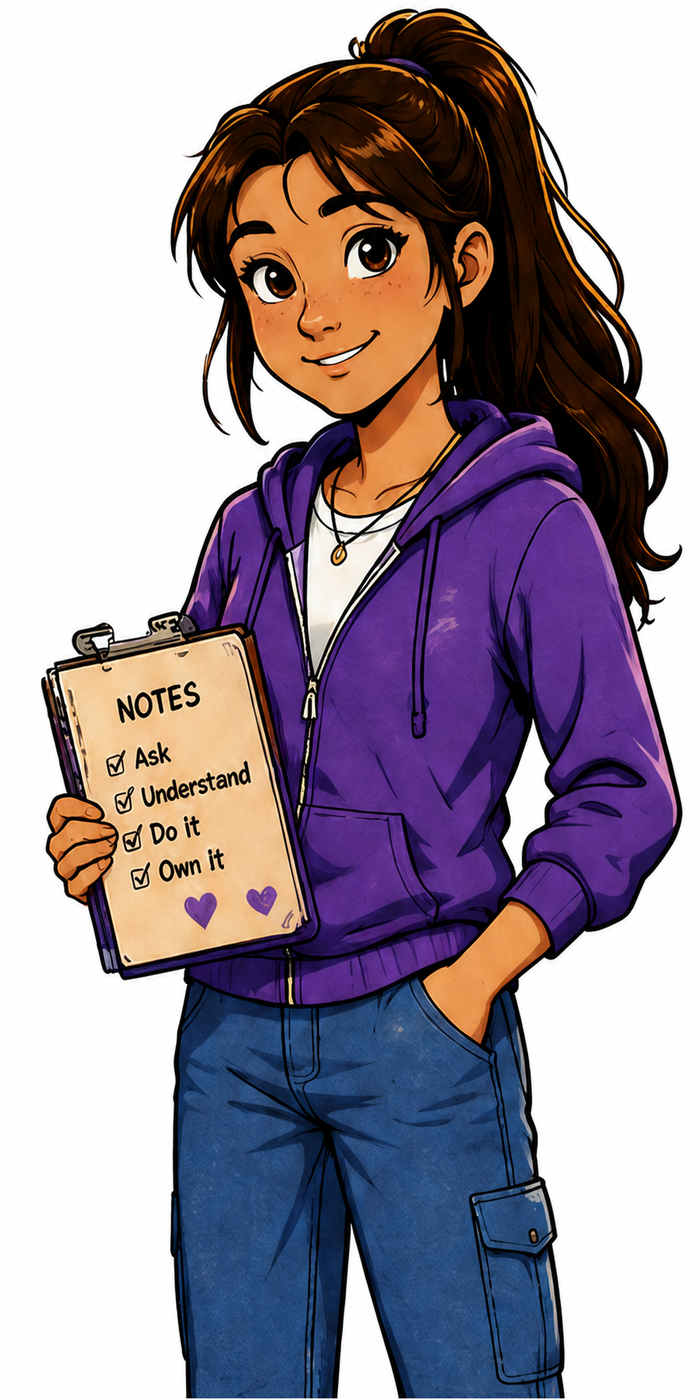
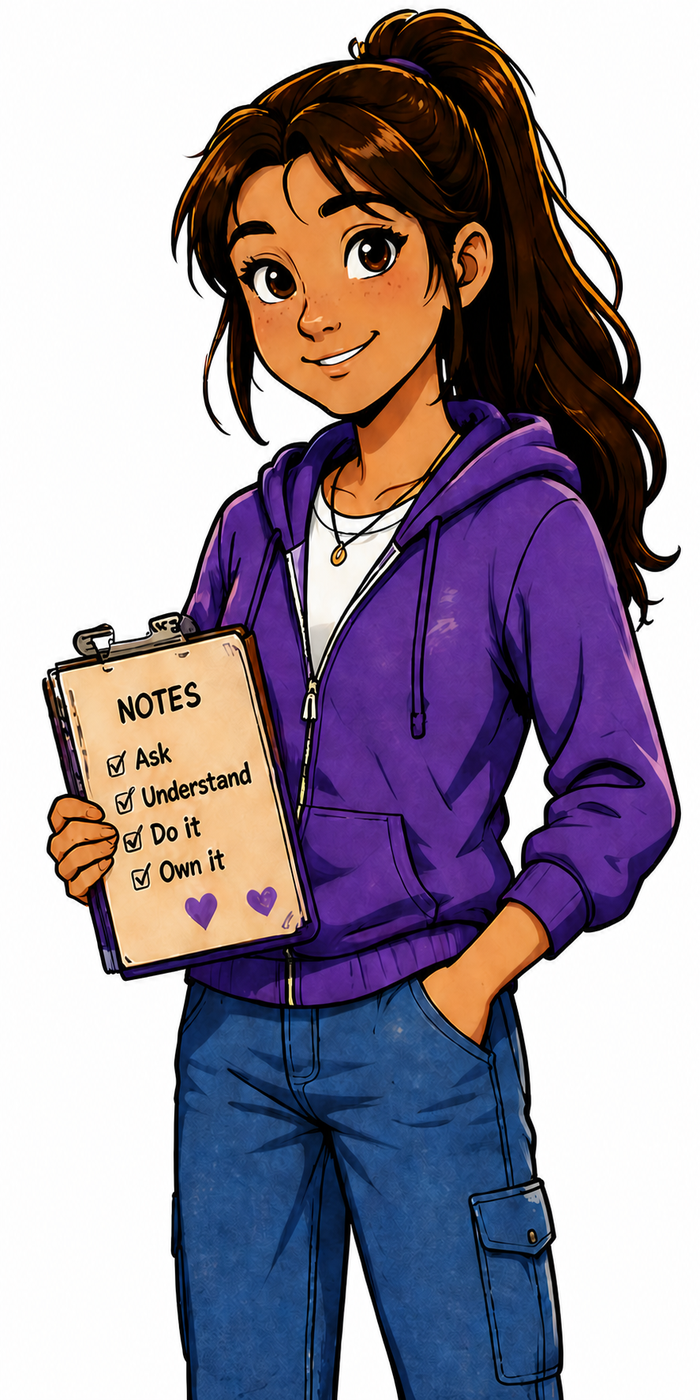
Add mobile menu and normalize Maya portrait

diff --git a/style.css b/style.css
@@ -1,5 +1,5 @@
 *{box-sizing:border-box}body{margin:0;background:#ececec;color:#1f1f1f;font-family:Arial,Helvetica,sans-serif;line-height:1.6}
-.top-nav{position:sticky;top:0;z-index:10;display:flex;justify-content:center;gap:4px 10px;overflow-x:auto;background:#1f6f8b;padding:10px 18px}.top-nav a{display:inline-block;flex:0 0 auto;padding:7px 11px;border-radius:7px;color:white;text-decoration:none;font-weight:bold;white-space:nowrap}.top-nav a:hover,.top-nav a:focus-visible{background:rgba(255,255,255,.14);text-decoration:underline;text-underline-offset:4px}.top-nav a[aria-current="page"]{background:#fff;color:#174f65;box-shadow:0 2px 8px rgba(0,0,0,.18);text-decoration:none}
+.top-nav{position:sticky;top:0;z-index:10;display:flex;justify-content:center;gap:4px 10px;overflow-x:auto;background:#1f6f8b;padding:10px 18px}.top-nav a{display:inline-block;flex:0 0 auto;padding:7px 11px;border-radius:7px;color:white;text-decoration:none;font-weight:bold;white-space:nowrap}.top-nav a:hover,.top-nav a:focus-visible{background:rgba(255,255,255,.14);text-decoration:underline;text-underline-offset:4px}.top-nav a[aria-current="page"]{background:#fff;color:#174f65;box-shadow:0 2px 8px rgba(0,0,0,.18);text-decoration:none}.mobile-menu-toggle{display:none}
 .hero{padding:68px 20px;text-align:center;background:linear-gradient(145deg,#fff,#e8f5f9);border-bottom:1px solid #cfcfcf}.hero h1{margin:4px 0 8px;font-size:clamp(2.2rem,7vw,4.8rem);line-height:1.05}
 .eyebrow{margin:0;color:#174f65;font-size:.95rem;font-weight:bold;letter-spacing:.08em;text-transform:uppercase}.hero-subtitle{font-size:clamp(1.2rem,3vw,1.7rem);font-weight:bold}.hero-copy{max-width:720px;margin:16px auto 28px}
 .hero-button,.card-button{display:inline-block;padding:14px 20px;border-radius:8px;background:#1f6f8b;color:white;text-decoration:none;font-weight:bold}
@@ -32,6 +32,13 @@ main{width:min(100%,1050px);margin:0 auto;padding:26px 14px 46px}.home-page{widt
 footer{padding:22px;text-align:center;color:#5f666b}
 @media(max-width:760px){
 .top-nav{justify-content:flex-start;gap:20px;padding:11px 14px}
+.top-nav.nav-enhanced{display:flex;flex-direction:column;align-items:stretch;gap:4px;overflow:visible;padding:9px 12px}
+.top-nav.nav-enhanced .mobile-menu-toggle{display:flex;align-items:center;justify-content:center;gap:9px;width:100%;padding:10px 14px;border:2px solid rgba(255,255,255,.7);border-radius:8px;background:transparent;color:#fff;font:inherit;font-weight:700;cursor:pointer}
+.top-nav.nav-enhanced .mobile-menu-toggle:hover,.top-nav.nav-enhanced .mobile-menu-toggle:focus-visible{background:rgba(255,255,255,.14);outline:3px solid rgba(255,255,255,.45);outline-offset:2px}
+.top-nav.nav-enhanced .menu-icon{font-size:1.15rem;line-height:1}
+.top-nav.nav-enhanced a{display:none;width:100%;box-sizing:border-box;padding:11px 14px;text-align:left}
+.top-nav.nav-enhanced.is-open a{display:block}
+.top-nav.nav-enhanced.is-open a[aria-current="page"]{box-shadow:none}
 .feature-grid,.skill-card-grid,.feedback-grid{grid-template-columns:1fr}.navigation-buttons{display:grid}.nav-button{width:100%}.skill-list a{display:block}.skill-number{display:block}.skill-section{padding:16px}.skill-guide{padding-left:8px;padding-right:8px}
 .comic-panel-review{margin:14px -16px 20px;overflow:hidden;border-radius:0}.comic-panel-review img{width:142%;max-width:none;margin-left:-21%;border-left:0;border-right:0;border-radius:0;box-shadow:none}.comic-panel-review figcaption{padding:0 16px}
 .first-page-crop img{clip-path:inset(0 0 7% 0);margin-bottom:-7%}.comic-panel-crop{max-height:390px}.middle-crop img{transform:translateY(-4%)}.lower-crop img{transform:translateY(-3%)}

diff --git a/nav-state.js b/nav-state.js
@@ -2,6 +2,53 @@
   const nav = document.querySelector(".top-nav");
   if (!nav) return;
 
+  nav.id ||= "site-navigation";
+  nav.classList.add("nav-enhanced");
+
+  const menuButton = document.createElement("button");
+  menuButton.type = "button";
+  menuButton.className = "mobile-menu-toggle";
+  menuButton.setAttribute("aria-controls", nav.id);
+  menuButton.setAttribute("aria-expanded", "false");
+  menuButton.innerHTML =
+    '<span class="menu-icon" aria-hidden="true">☰</span><span>Menu</span>';
+  nav.prepend(menuButton);
+
+  const closeMenu = () => {
+    nav.classList.remove("is-open");
+    menuButton.setAttribute("aria-expanded", "false");
+    menuButton.querySelector(".menu-icon").textContent = "☰";
+  };
+
+  menuButton.addEventListener("click", () => {
+    const isOpen = nav.classList.toggle("is-open");
+    menuButton.setAttribute("aria-expanded", String(isOpen));
+    menuButton.querySelector(".menu-icon").textContent = isOpen ? "✕" : "☰";
+  });
+
+  nav.querySelectorAll("a").forEach((link) => {
+    link.addEventListener("click", closeMenu);
+  });
+
+  document.addEventListener("keydown", (event) => {
+    if (event.key === "Escape" && nav.classList.contains("is-open")) {
+      closeMenu();
+      menuButton.focus();
+    }
+  });
+
+  document.addEventListener("click", (event) => {
+    if (
+      window.matchMedia("(max-width: 760px)").matches &&
+      nav.classList.contains("is-open") &&
+      !nav.contains(event.target)
+    ) {
+      closeMenu();
+    }
+  });
+
+  window.matchMedia("(min-width: 761px)").addEventListener("change", closeMenu);
+
   const path = window.location.pathname.replace(/\\/g, "/").toLowerCase();
   const isRootHome = /\/(?:index(?:_v2)?\.html)?$/.test(path) && !path.includes("/adventures/");
 
@@ -26,6 +73,8 @@
 
   if (activeLink) {
     activeLink.setAttribute("aria-current", "page");
-    activeLink.scrollIntoView({ block: "nearest", inline: "nearest" });
+    if (!window.matchMedia("(max-width: 760px)").matches) {
+      activeLink.scrollIntoView({ block: "nearest", inline: "nearest" });
+    }
   }
 })();

diff --git a/characters/tyler.html b/characters/tyler.html
@@ -1,7 +1,7 @@
 <!doctype html>
-<html lang="en"><head><meta charset="utf-8"><meta name="viewport" content="width=device-width, initial-scale=1"><title>Tyler | Driver Confidence Guide</title><link rel="stylesheet" href="../style.css"><style>
+<html lang="en"><head><meta charset="utf-8"><meta name="viewport" content="width=device-width, initial-scale=1"><title>Tyler | Driver Confidence Guide</title><link rel="stylesheet" href="../style.css?v=20260730-mobile-menu"><style>
 .character-profile{max-width:1050px;margin:0 auto;padding:2.5rem 1rem 4rem}.character-hero{display:grid;grid-template-columns:minmax(280px,420px) 1fr;gap:2.5rem;align-items:center}.character-hero img{display:block;width:100%;height:560px;object-fit:cover;object-position:center top;background:#fff;border-radius:24px;box-shadow:0 10px 30px rgba(0,0,0,.09)}.character-grid{display:grid;grid-template-columns:repeat(2,minmax(0,1fr));gap:1.25rem;margin-top:2rem}.character-box{padding:1.4rem;border-radius:20px;background:#fff;box-shadow:0 8px 24px rgba(0,0,0,.07)}@media(max-width:760px){.character-hero,.character-grid{grid-template-columns:1fr}.character-hero img{height:440px}}
-</style>  <script defer src="../nav-state.js?v=20260730-active-nav"></script>
+</style>  <script defer src="../nav-state.js?v=20260730-mobile-menu"></script>
 </head><body>
 <nav class="top-nav">
   <a href="../index.html">Home</a>

diff --git a/characters/alex.html b/characters/alex.html
@@ -1,7 +1,7 @@
 <!doctype html>
-<html lang="en"><head><meta charset="utf-8"><meta name="viewport" content="width=device-width, initial-scale=1"><title>Alex | Driver Confidence Guide</title><link rel="stylesheet" href="../style.css"><style>
+<html lang="en"><head><meta charset="utf-8"><meta name="viewport" content="width=device-width, initial-scale=1"><title>Alex | Driver Confidence Guide</title><link rel="stylesheet" href="../style.css?v=20260730-mobile-menu"><style>
 .character-profile{max-width:1050px;margin:0 auto;padding:2.5rem 1rem 4rem}.character-hero{display:grid;grid-template-columns:minmax(280px,420px) 1fr;gap:2.5rem;align-items:center}.character-hero img{display:block;width:100%;height:560px;object-fit:cover;object-position:center top;background:#fff;border-radius:24px;box-shadow:0 10px 30px rgba(0,0,0,.09)}.character-grid{display:grid;grid-template-columns:repeat(2,minmax(0,1fr));gap:1.25rem;margin-top:2rem}.character-box{padding:1.4rem;border-radius:20px;background:#fff;box-shadow:0 8px 24px rgba(0,0,0,.07)}@media(max-width:760px){.character-hero,.character-grid{grid-template-columns:1fr}.character-hero img{height:440px}}
-</style>  <script defer src="../nav-state.js?v=20260730-active-nav"></script>
+</style>  <script defer src="../nav-state.js?v=20260730-mobile-menu"></script>
 </head><body>
 <nav class="top-nav">
   <a href="../index.html">Home</a>

diff --git a/characters/emma.html b/characters/emma.html
@@ -1,7 +1,7 @@
 <!doctype html>
-<html lang="en"><head><meta charset="utf-8"><meta name="viewport" content="width=device-width, initial-scale=1"><title>Emma | Driver Confidence Guide</title><link rel="stylesheet" href="../style.css"><style>
+<html lang="en"><head><meta charset="utf-8"><meta name="viewport" content="width=device-width, initial-scale=1"><title>Emma | Driver Confidence Guide</title><link rel="stylesheet" href="../style.css?v=20260730-mobile-menu"><style>
 .character-profile{max-width:1050px;margin:0 auto;padding:2.5rem 1rem 4rem}.character-hero{display:grid;grid-template-columns:minmax(280px,420px) 1fr;gap:2.5rem;align-items:center}.character-hero img{display:block;width:100%;height:560px;object-fit:cover;object-position:center top;background:#fff;border-radius:24px;box-shadow:0 10px 30px rgba(0,0,0,.09)}.character-grid{display:grid;grid-template-columns:repeat(2,minmax(0,1fr));gap:1.25rem;margin-top:2rem}.character-box{padding:1.4rem;border-radius:20px;background:#fff;box-shadow:0 8px 24px rgba(0,0,0,.07)}@media(max-width:760px){.character-hero,.character-grid{grid-template-columns:1fr}.character-hero img{height:440px}}
-</style>  <script defer src="../nav-state.js?v=20260730-active-nav"></script>
+</style>  <script defer src="../nav-state.js?v=20260730-mobile-menu"></script>
 </head><body>
 <nav class="top-nav">
   <a href="../index.html">Home</a>

diff --git a/characters/maya.html b/characters/maya.html
@@ -1,7 +1,7 @@
 <!doctype html>
-<html lang="en"><head><meta charset="utf-8"><meta name="viewport" content="width=device-width, initial-scale=1"><title>Maya | Driver Confidence Guide</title><link rel="stylesheet" href="../style.css"><style>
+<html lang="en"><head><meta charset="utf-8"><meta name="viewport" content="width=device-width, initial-scale=1"><title>Maya | Driver Confidence Guide</title><link rel="stylesheet" href="../style.css?v=20260730-mobile-menu"><style>
 .character-profile{max-width:1050px;margin:0 auto;padding:2.5rem 1rem 4rem}.character-hero{display:grid;grid-template-columns:minmax(280px,420px) 1fr;gap:2.5rem;align-items:center}.character-hero img{display:block;width:100%;height:560px;object-fit:cover;object-position:center top;background:#fff;border-radius:24px;box-shadow:0 10px 30px rgba(0,0,0,.09)}.character-grid{display:grid;grid-template-columns:repeat(2,minmax(0,1fr));gap:1.25rem;margin-top:2rem}.character-box{padding:1.4rem;border-radius:20px;background:#fff;box-shadow:0 8px 24px rgba(0,0,0,.07)}@media(max-width:760px){.character-hero,.character-grid{grid-template-columns:1fr}.character-hero img{height:440px}}
-</style>  <script defer src="../nav-state.js?v=20260730-active-nav"></script>
+</style>  <script defer src="../nav-state.js?v=20260730-mobile-menu"></script>
 </head><body>
 <nav class="top-nav">
   <a href="../index.html">Home</a>

diff --git a/adventures/go-camping/index.html b/adventures/go-camping/index.html
@@ -1,4 +1,4 @@
-<!doctype html><html lang="en"><head><meta charset="utf-8"><meta name="viewport" content="width=device-width,initial-scale=1"><title>Adventure 3: Go Camping | Driver Confidence Guide</title><link rel="stylesheet" href="../../style.css"><link rel="stylesheet" href="../zoo-day/adventure.css">  <script defer src="../../nav-state.js?v=20260730-active-nav"></script>
+<!doctype html><html lang="en"><head><meta charset="utf-8"><meta name="viewport" content="width=device-width,initial-scale=1"><title>Adventure 3: Go Camping | Driver Confidence Guide</title><link rel="stylesheet" href="../../style.css?v=20260730-mobile-menu"><link rel="stylesheet" href="../zoo-day/adventure.css">  <script defer src="../../nav-state.js?v=20260730-mobile-menu"></script>
 </head><body><nav class="top-nav">
   <a href="../../index.html">Home</a>
   <a href="../../adventures/borrowing-moms-car/index.html">Start Your First Adventure</a>

diff --git a/adventures/zoo-day/index.html b/adventures/zoo-day/index.html
@@ -1,4 +1,4 @@
-<!doctype html><html lang="en"><head><meta charset="utf-8"><meta name="viewport" content="width=device-width,initial-scale=1"><title>Adventure 2: Zoo Day | Driver Confidence Guide</title><link rel="stylesheet" href="../../style.css"><link rel="stylesheet" href="adventure.css">  <script defer src="../../nav-state.js?v=20260730-active-nav"></script>
+<!doctype html><html lang="en"><head><meta charset="utf-8"><meta name="viewport" content="width=device-width,initial-scale=1"><title>Adventure 2: Zoo Day | Driver Confidence Guide</title><link rel="stylesheet" href="../../style.css?v=20260730-mobile-menu"><link rel="stylesheet" href="adventure.css">  <script defer src="../../nav-state.js?v=20260730-mobile-menu"></script>
 </head><body><nav class="top-nav">
   <a href="../../index.html">Home</a>
   <a href="../../adventures/borrowing-moms-car/index.html">Start Your First Adventure</a>

diff --git a/adventures/go-camping/ending.html b/adventures/go-camping/ending.html
@@ -1,4 +1,4 @@
-<!doctype html><html lang="en"><head><meta charset="utf-8"><meta name="viewport" content="width=device-width,initial-scale=1"><title>Adventure Complete | Go Camping</title><link rel="stylesheet" href="../../style.css"><link rel="stylesheet" href="../zoo-day/adventure.css">  <script defer src="../../nav-state.js?v=20260730-active-nav"></script>
+<!doctype html><html lang="en"><head><meta charset="utf-8"><meta name="viewport" content="width=device-width,initial-scale=1"><title>Adventure Complete | Go Camping</title><link rel="stylesheet" href="../../style.css?v=20260730-mobile-menu"><link rel="stylesheet" href="../zoo-day/adventure.css">  <script defer src="../../nav-state.js?v=20260730-mobile-menu"></script>
 </head><body><nav class="top-nav">
   <a href="../../index.html">Home</a>
   <a href="../../adventures/borrowing-moms-car/index.html">Start Your First Adventure</a>

diff --git a/adventures/go-camping/scene-3.html b/adventures/go-camping/scene-3.html
@@ -1,4 +1,4 @@
-<!doctype html><html lang="en"><head><meta charset="utf-8"><meta name="viewport" content="width=device-width,initial-scale=1"><title>Roadside Trouble | Adventure 3</title><link rel="stylesheet" href="../../style.css"><link rel="stylesheet" href="../zoo-day/adventure.css">  <script defer src="../../nav-state.js?v=20260730-active-nav"></script>
+<!doctype html><html lang="en"><head><meta charset="utf-8"><meta name="viewport" content="width=device-width,initial-scale=1"><title>Roadside Trouble | Adventure 3</title><link rel="stylesheet" href="../../style.css?v=20260730-mobile-menu"><link rel="stylesheet" href="../zoo-day/adventure.css">  <script defer src="../../nav-state.js?v=20260730-mobile-menu"></script>
 </head><body><nav class="top-nav">
   <a href="../../index.html">Home</a>
   <a href="../../adventures/borrowing-moms-car/index.html">Start Your First Adventure</a>

diff --git a/adventures/go-camping/toolkit-result.html b/adventures/go-camping/toolkit-result.html
@@ -1,4 +1,4 @@
-<!doctype html><html lang="en"><head><meta charset="utf-8"><meta name="viewport" content="width=device-width,initial-scale=1"><title>Roadside Toolkit | Go Camping</title><link rel="stylesheet" href="../../style.css"><link rel="stylesheet" href="../zoo-day/adventure.css">  <script defer src="../../nav-state.js?v=20260730-active-nav"></script>
+<!doctype html><html lang="en"><head><meta charset="utf-8"><meta name="viewport" content="width=device-width,initial-scale=1"><title>Roadside Toolkit | Go Camping</title><link rel="stylesheet" href="../../style.css?v=20260730-mobile-menu"><link rel="stylesheet" href="../zoo-day/adventure.css">  <script defer src="../../nav-state.js?v=20260730-mobile-menu"></script>
 </head><body><nav class="top-nav">
   <a href="../../index.html">Home</a>
   <a href="../../adventures/borrowing-moms-car/index.html">Start Your First Adventure</a>

diff --git a/adventures/borrowing-moms-car/ending-safe.html b/adventures/borrowing-moms-car/ending-safe.html
@@ -1,4 +1,4 @@
-<!doctype html><html lang="en"><head><meta charset="utf-8"><meta name="viewport" content="width=device-width,initial-scale=1"><title>Adventure Complete | Borrow Mom's Car</title><link rel="stylesheet" href="../../style.css"><link rel="stylesheet" href="adventure.css">  <script defer src="../../nav-state.js?v=20260730-active-nav"></script>
+<!doctype html><html lang="en"><head><meta charset="utf-8"><meta name="viewport" content="width=device-width,initial-scale=1"><title>Adventure Complete | Borrow Mom's Car</title><link rel="stylesheet" href="../../style.css?v=20260730-mobile-menu"><link rel="stylesheet" href="adventure.css">  <script defer src="../../nav-state.js?v=20260730-mobile-menu"></script>
 </head><body><nav class="top-nav">
   <a href="../../index.html">Home</a>
   <a href="../../adventures/borrowing-moms-car/index.html">Start Your First Adventure</a>
